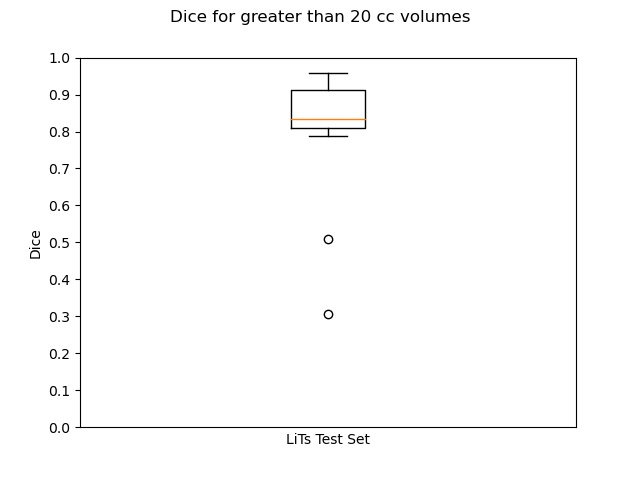
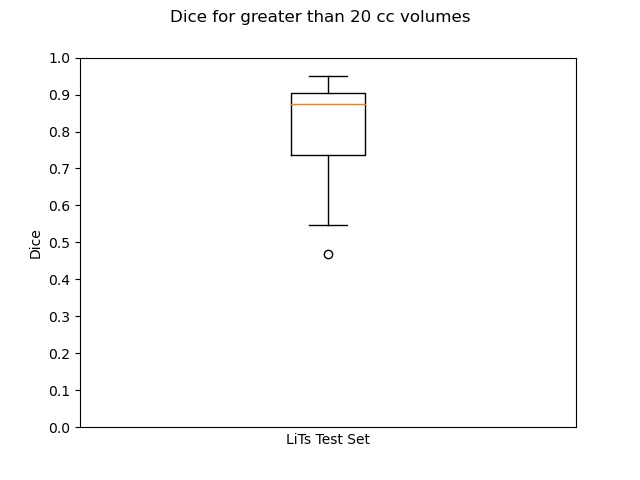
updated to dense model, resampling 1 mm before back to native

Changed region(s): [[0.4375, 0.125, 0.5938, 0.5312], [0.5, 0.625, 0.5312, 0.6562]]

diff --git a/Deep_Learning/Return_Train_Validation_Generators_TF2.py b/Deep_Learning/Return_Train_Validation_Generators_TF2.py
@@ -412,18 +412,18 @@ def return_base_dict_dense(step_size_factor=10, save_a_model=False):
 
 def return_generators(batch_size=16, wanted_keys={'inputs':['image','mask'],'outputs':['annotation']},path_lead='Records_1mm',
                       add='', is_test=False, cache=True, validation_name='',cache_add='', flip=False,
-                      change_background=False, threshold=False, threshold_val=10, evaluation=False):
+                      change_background=False, threshold=False, threshold_val=10, evaluation=False, train_path=None,
+                      validation_path=None):
     base_path, morfeus_drive = return_paths()
     if not os.path.exists(base_path):
         print('{} does not exist'.format(base_path))
-    train_path = [os.path.join(base_path, path_lead, 'Train{}_Records'.format(add))]
-    validation_path = [os.path.join(base_path, path_lead,'Validation{}_Records'.format(validation_name))]
+    if train_path is None:
+        train_path = [os.path.join(base_path, path_lead, 'Train{}_Records'.format(add))]
+    if validation_path is None:
+        validation_path = [os.path.join(base_path, path_lead,'Validation{}_Records'.format(validation_name))]
     ext = 'Validation'
     if evaluation:
         ext += '_whole'
-    if is_test:
-        validation_path = [os.path.join(base_path, 'Test', 'Test.tfrecord')]
-        ext = 'Test'
 
     train_generator = Data_Generator_Class(records_path=train_path)
     validation_generator = Data_Generator_Class(records_path=validation_path, in_parallel=True)
@@ -473,13 +473,16 @@ def return_generators(batch_size=16, wanted_keys={'inputs':['image','mask'],'out
         {'batch': 1},
         {'repeat'}]
     train_generator.compile_data_set(image_processors=train_processors, debug=False)
-    validation_generator.compile_data_set(image_processors=validation_processors, debug=False)
+    validation_generator.compile_data_set(image_processors=validation_processors, debug=True)
     start = time.time()
-    for generator in [validation_generator, train_generator]: #
-        data_set = iter(generator.data_set)
-        for _ in range(len(generator)):
-            x, y = next(data_set)
-            print(x[0].shape)
+    generators = [validation_generator]
+    if not evaluation:
+        generators += [train_generator]
+        for generator in generators: #
+            data_set = iter(generator.data_set)
+            for _ in range(len(generator)):
+                x, y = next(data_set)
+                print(x[0].shape)
     print(time.time()-start)
     #     print(data[1][0].shape)
     # data = next(data_set)
@@ -487,5 +490,5 @@ def return_generators(batch_size=16, wanted_keys={'inputs':['image','mask'],'out
 
 
 if __name__ == '__main__':
-    # return_generators(add='_32', threshold=True, change_background=False, cache_add='_1mm_change_bckrd', threshold_val=10)
+    return_generators(add='_32', threshold=True, change_background=True, cache_add='_1mm_change_bckrd', threshold_val=10)
     pass

diff --git a/Deep_Learning/Evaluate_Model/Main.py b/Deep_Learning/Evaluate_Model/Main.py
@@ -46,23 +46,23 @@ def main():
         validation_path = [r'D:\Liver_Disease_Ablation\Records\Test_Records']
         create_prediction_files(is_test=True, desc=desc, model_path=model_path, path_ext=path_ext, validation_path=validation_path)
 
-    evaluate_prediction = True
+    evaluate_prediction = False
     if evaluate_prediction:
         from Deep_Learning.Evaluate_Model.Evaluate_On_Data_TF2 import create_metric_chart, np
         path = r'D:\Liver_Disease_Ablation\Predictions{}\Validation{}'.format(path_ext, desc)
         create_metric_chart(path=path,out_path=os.path.join('.','Threshold_Seed_Pickles'),
-                            seed_range=np.arange(0.5,1.0,0.05),
-                            threshold_range=np.arange(0.1,1.0,0.05), re_write=False, thread_count=1)
+                            seed_range=np.arange(0.8,1.0,0.01),
+                            threshold_range=np.arange(0.1,.6,0.05), re_write=False, thread_count=10)
 
     evaluate_test = False
     if evaluate_test:
         from Deep_Learning.Evaluate_Model.Evaluate_On_Data_TF2 import create_metric_chart
         path = r'D:\Liver_Disease_Ablation\Predictions{}\Test{}'.format(path_ext, desc)
         create_metric_chart(path=path,out_path=os.path.join('.','Test_Output'),
-                            seed_range=[.9], threshold_range=[.15], re_write=True,
+                            seed_range=[.93], threshold_range=[.2], re_write=False,
                             write_final_prediction=True)
 
-    write_box_plots = False
+    write_box_plots = True
     if write_box_plots:
         from Deep_Learning.Evaluate_Model.Make_Box_Plots import create_plot
         import pandas as pd
@@ -70,10 +70,11 @@ def main():
         out_path = os.path.join('.', 'Test_Output','Final_Prediction.xlsx')
         df = pd.read_excel(out_path, engine='xlrd')
         volumes = df['volume'].values
-        values = df['median_surface_distance'].values
+        values = df['dice'].values
         values = values[volumes>20]
         values = values[values<1000]
-        create_plot('Median Surface Distance for greater than 20 cc volumes',values=values,metric='Median Surface Distance', out_path=os.path.join('.','Images'))
+        create_plot('Dice for greater than 20 cc volumes',values=values,metric='Dice', out_path=os.path.join('.','Images'),
+                    y_ticks=[0,.1,.2,.3,0.4,0.5,0.6,0.7,0.8,0.9,1])
         xxx = 1
 
 

diff --git a/Deep_Learning/Evaluate_Model/Evaluate_On_Data_TF2.py b/Deep_Learning/Evaluate_Model/Evaluate_On_Data_TF2.py
@@ -85,10 +85,14 @@ class run_metrics(object):
         pat_name = os.path.split(file)[-1].split('.')[0]
         print(pat_name)
         truth = sitk.ReadImage(file.replace('_Image','_Truth'), sitk.sitkUInt8)
+        mask = sitk.ReadImage(file.replace('_Image','_Mask'), sitk.sitkUInt8)
+        mask_filter = sitk.MaskImageFilter()
+        mask_filter.SetMaskingValue(0)
         truth_array = sitk.GetArrayFromImage(truth)
         volume = truth_array[truth_array == 1].shape[0] * np.prod(truth.GetSpacing()) / 1000
         prediction = sitk.ReadImage(file.replace('_Image','_Prediction'))
-
+        prediction = resampler.resample_image(prediction, ref_handle=truth)
+        prediction = mask_filter.Execute(prediction, mask)
         overlap_measures_filter = sitk.LabelOverlapMeasuresImageFilter()
 
         statistics_image_filter = sitk.StatisticsImageFilter()
@@ -122,8 +126,6 @@ class run_metrics(object):
                 # print('Threshold value {}'.format(threshold_value))
                 Connected_Threshold.SetLower(threshold_value)
                 threshold_pred = Connected_Threshold.Execute(prediction)
-                threshold_pred = resampler.resample_image(threshold_pred, ref_handle=truth)
-                threshold_pred = threshold_pred > 0
                 if write_final_prediction:
                     threshold_pred = fill_binary.process(threshold_pred)
                     threshold_pred.SetOrigin(truth.GetOrigin())

diff --git a/Deep_Learning/Evaluate_Model/Make_Box_Plots.py b/Deep_Learning/Evaluate_Model/Make_Box_Plots.py
@@ -16,10 +16,9 @@ def load_obj(path):
         return out
 
 
-def create_plot(title, values, metric, out_path=None):
+def create_plot(title, values, metric, out_path=None, y_ticks=None):
     x_ticks = ['']
     num_labels = [i for i in range(len(x_ticks))]
-    y_ticks = [0,0.1,0.2,0.3,0.4,0.5,0.6,0.7,0.8,0.9,1]
     plt.figure(0)
     plt.suptitle(title)
     ax = plt.subplot(1,1,1)
@@ -27,7 +26,8 @@ def create_plot(title, values, metric, out_path=None):
     plt.xlabel('LiTs Test Set')
     plt.ylabel(metric)
     plt.xticks(num_labels,x_ticks)
-    # plt.yticks(y_ticks)
+    if y_ticks is not None:
+        plt.yticks(y_ticks)
     if out_path is not None:
         if not os.path.exists(out_path):
             os.makedirs(out_path)

diff --git a/Deep_Learning/Evaluate_Model/Write_Predictions.py b/Deep_Learning/Evaluate_Model/Write_Predictions.py
@@ -19,7 +19,7 @@ def create_prediction_files(is_test=False, path_ext = '', desc='', model_path='w
                                                                     wanted_keys={'inputs':
                                                                                      ['image_path', 'image', 'mask'],
                                                                                  'outputs': ['annotation']},
-                                                                    evaluation=True, validation_name='Validation_whole',
+                                                                    evaluation=False, validation_name='Validation_whole',
                                                                     validation_path=validation_path)
     model_val = None
     ext = 'Validation'